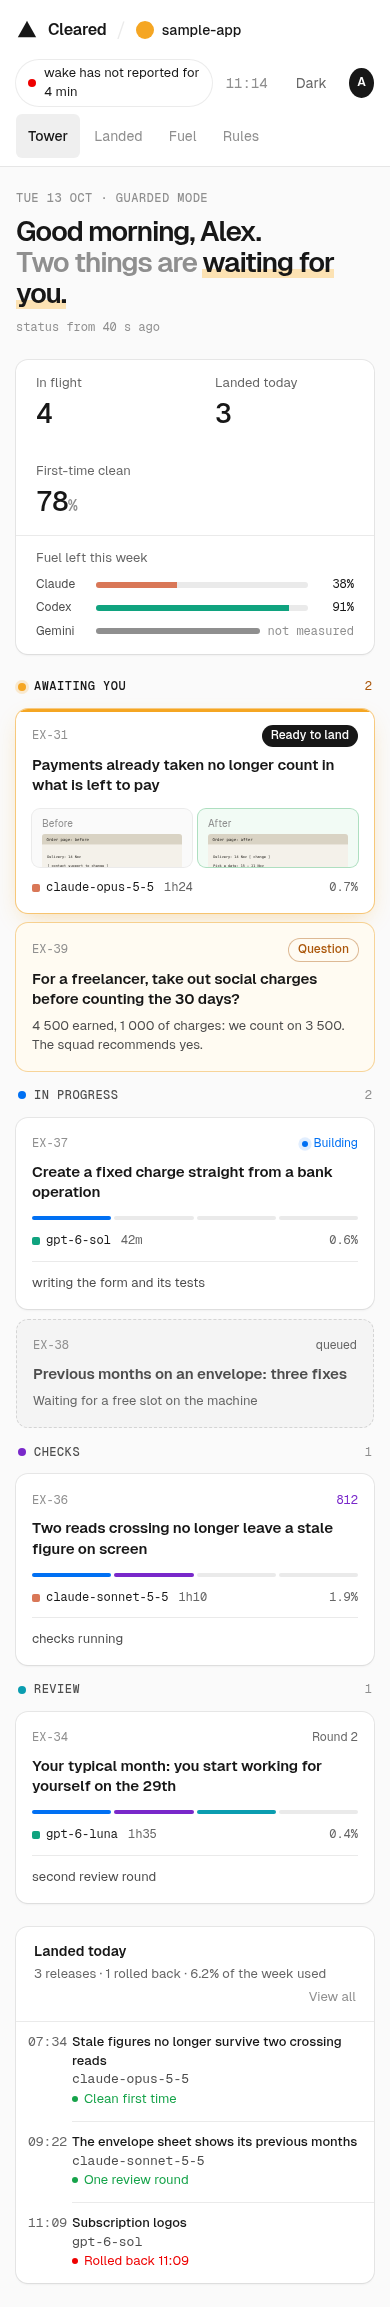
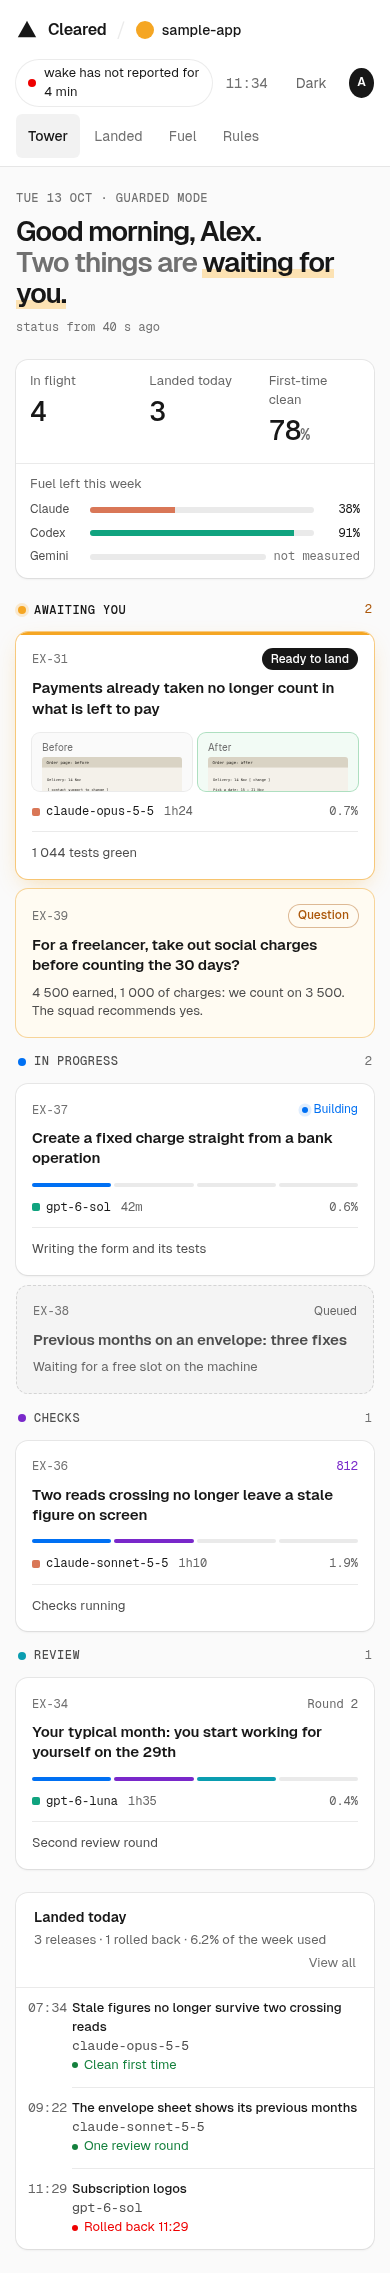
fix: address review round 1 of the redesign
Readable disabled actions, empty fuel track when not measured, 4.5:1 text colours,
live stat strip and landed table, grammatical French, table semantics, focus kept
in the porthole, no remote call for landed titles, question card shows the
question, mockups load fonts from the app, stricter design tests.

diff --git a/app/public/style.css b/app/public/style.css
@@ -3,10 +3,10 @@
 @font-face { font-family: "Geist Mono"; src: url("/fonts/GeistMono-Variable.woff2") format("woff2"); font-weight: 100 900; font-display: swap; }
 :root {
   --canvas: #FAFAFA; --surface: #FFFFFF; --surface-muted: #F4F4F4; --hairline: #EAEAEA; --outline: rgba(0,0,0,.08);
-  --text: #171717; --text-secondary: #4D4D4D; --text-muted: #666666; --text-faint: #8F8F8F;
+  --text: #171717; --text-secondary: #4D4D4D; --text-muted: #666666; --text-faint: #707070;
   --ink: #171717; --on-ink: #FFFFFF;
   --awaiting: #F5A623; --awaiting-text: #AB570A; --awaiting-surface: #FFFBF2; --awaiting-highlight: #FCE2B3;
-  --success: #16A34A; --success-surface: #F2FBF5; --danger: #EE0000; --link: #0070F3;
+  --success: #16A34A; --success-text: #15803D; --success-surface: #F2FBF5; --danger: #EE0000; --link: #0070F3;
   --stage-progress: #0070F3; --stage-checks: #7928CA; --stage-review: #0A9DB0;
   --harness-claude: #D97757; --harness-codex: #10A37F; --harness-other: #8F8F8F;
   --dashed: #D4D4D4; --disabled-bg: #EDEDED;
@@ -16,7 +16,7 @@
   --e-awaiting: 0 0 0 1px rgba(245,166,35,.55), 0 8px 24px -8px rgba(245,166,35,.45);
   --e-device-after: 0 0 0 1.5px rgba(22,163,74,.55), 0 8px 20px -6px rgba(22,163,74,.35);
   --e-header: 0 1px 0 rgba(0,0,0,.08);
-  --ease: cubic-bezier(.2,.8,.2,1);
+  --ease: cubic-bezier(.2,.8,.2,1); --conn-ink: #FFFFFF; --tab-fill: rgba(0,0,0,.05); --device-before: 0 0 0 1px rgba(0,0,0,.1), 0 4px 12px rgba(0,0,0,.06);
   color-scheme: light;
 }
 /* Dark is the second plane: same roles, other values. Chosen with the button; never imposed by the system. */
@@ -25,7 +25,7 @@
   --text: #EDEDED; --text-secondary: #B8B8B8; --text-muted: #A1A1A1; --text-faint: #8F8F8F;
   --ink: #EDEDED; --on-ink: #0A0A0A;
   --awaiting: #F5A623; --awaiting-text: #F7B955; --awaiting-surface: #1C1708; --awaiting-highlight: #5A3F0C;
-  --success: #3DD068; --success-surface: #0C1C12; --danger: #FF4D4D; --link: #52A8FF;
+  --success: #3DD068; --success-text: #3DD068; --success-surface: #0C1C12; --danger: #FF4D4D; --link: #52A8FF;
   --stage-progress: #52A8FF; --stage-checks: #BF7AF0; --stage-review: #3DC6D8;
   --dashed: #3A3A3A; --disabled-bg: #1F1F1F;
   --e-outline: 0 0 0 1px rgba(255,255,255,.12);
@@ -33,6 +33,7 @@
   --e-awaiting: 0 0 0 1px rgba(245,166,35,.6), 0 8px 24px -8px rgba(245,166,35,.25);
   --e-device-after: 0 0 0 1.5px rgba(61,208,104,.6), 0 8px 20px -6px rgba(61,208,104,.25);
   --e-header: 0 1px 0 rgba(255,255,255,.12);
+  --conn-ink: #0A0A0A; --tab-fill: rgba(255,255,255,.08); --device-before: 0 0 0 1px rgba(255,255,255,.22);
   color-scheme: dark;
 }
 * { box-sizing: border-box; }
@@ -40,7 +41,7 @@ body { margin: 0; background: var(--canvas); color: var(--text); font: 400 14px/
 h1, h2, h3, p { margin: 0; }
 a { color: var(--link); } button { font: inherit; color: inherit; }
 .mono { font-family: var(--mono); font-variant-numeric: tabular-nums; }
-.faint { color: var(--text-faint); } .muted { color: var(--text-muted); } .danger { color: var(--danger); } .success { color: var(--success); }
+.faint { color: var(--text-faint); } .muted { color: var(--text-muted); } .danger { color: var(--danger); } .success { color: var(--success-text); }
 .label { font: 500 12px/1.4 var(--mono); letter-spacing: .04em; text-transform: uppercase; }
 :focus-visible { outline: 2px solid var(--link); outline-offset: 2px; }
 .skip { position: absolute; left: -999px; } .skip:focus { left: 8px; top: 8px; background: var(--surface); padding: 8px 12px; z-index: 30; box-shadow: var(--e-outline); }
@@ -54,7 +55,7 @@ a { color: var(--link); } button { font: inherit; color: inherit; }
 .project { display: inline-flex; align-items: center; gap: 8px; font-weight: 500; min-height: 44px; }
 .project::before { content: ""; width: 18px; height: 18px; border-radius: 50%; background: var(--awaiting); }
 .views { display: flex; gap: 2px; } .views a, .views span { display: inline-flex; align-items: center; min-height: 44px; padding: 0 12px; border-radius: 6px; color: var(--text-muted); text-decoration: none; }
-.views a[aria-current="page"] { color: var(--text); font-weight: 500; background: rgba(127,127,127,.12); }
+.views a[aria-current="page"] { color: var(--text); font-weight: 500; background: var(--tab-fill); }
 .views span[aria-disabled] { color: var(--text-faint); }
 .right { margin-left: auto; display: flex; align-items: center; gap: 14px; }
 .pill { display: inline-flex; align-items: center; gap: 8px; min-height: 32px; padding: 4px 12px; border-radius: 999px; background: var(--surface); box-shadow: var(--e-outline); font-size: 13px; }
@@ -62,7 +63,7 @@ a { color: var(--link); } button { font: inherit; color: inherit; }
 .avatar { width: 30px; height: 30px; border-radius: 50%; background: var(--ink); color: var(--on-ink); display: inline-flex; align-items: center; justify-content: center; font-size: 12px; font-weight: 600; }
 .plain { background: var(--surface); border: 0; box-shadow: var(--e-outline); border-radius: 8px; min-height: 44px; min-width: 44px; padding: 0 14px; cursor: pointer; }
 .plain.small { min-height: 44px; background: transparent; box-shadow: none; color: var(--text-muted); }
-.conn { padding: 8px 32px; background: var(--danger); color: #fff; font: 400 13px var(--mono); }
+.conn { padding: 8px 32px; background: var(--danger); color: var(--conn-ink); font: 400 13px var(--mono); }
 
 /* greeting band and stat strip */
 .band { display: flex; flex-wrap: wrap; align-items: flex-end; gap: 24px 32px; padding: 40px 32px 8px; }
@@ -76,7 +77,7 @@ a { color: var(--link); } button { font: inherit; color: inherit; }
 .stat .v small { font-size: 16px; color: var(--text-faint); font-weight: 500; }
 .stat.fuel { min-width: 190px; } .stat.fuel .k { margin-bottom: 8px; }
 .fuelrow { display: flex; align-items: center; gap: 8px; font-size: 12px; margin-top: 6px; } .fuelrow .n { width: 52px; color: var(--text-secondary); }
-.fuelrow .bar6 { flex: 1; height: 6px; border-radius: 3px; background: var(--hairline); overflow: hidden; } .fuelrow .bar6 span { display: block; height: 100%; }
+.fuelrow .bar6 { flex: 1; height: 6px; border-radius: 3px; background: var(--hairline); overflow: hidden; } .fuelrow .bar6 span { display: block; height: 100%; width: 0; }
 .fuelrow .p { font-family: var(--mono); min-width: 38px; text-align: right; }
 
 /* tower */
@@ -116,10 +117,10 @@ a { color: var(--link); } button { font: inherit; color: inherit; }
 /* landed today */
 .landed { margin: 32px; border-radius: 12px; background: var(--surface); box-shadow: var(--e-card); }
 .landed-head { display: flex; flex-wrap: wrap; align-items: baseline; gap: 4px 12px; padding: 14px 18px; box-shadow: 0 1px 0 var(--hairline); } .landed-head h2 { font-size: 14px; font-weight: 600; } .landed-head .muted { font-size: 13px; } .view-all { margin-left: auto; font-size: 13px; }
-.landed-rows { display: grid; grid-template-columns: 90px 1fr 140px 170px; font-size: 13px; } .landed-rows > div { padding: 12px 0; box-shadow: 0 1px 0 var(--hairline); }
-.landed-rows > div:nth-last-child(-n+4) { box-shadow: none; }
+.landed-rows { display: grid; grid-template-columns: 90px 1fr 180px 170px; font-size: 13px; } .landed-rows [role="cell"] { padding: 12px 0; box-shadow: 0 1px 0 var(--hairline); }
+.landed-rows [role="row"]:last-child [role="cell"] { box-shadow: none; }
 .landed-rows .time { padding-left: 18px; color: var(--text-muted); font-family: var(--mono); } .landed-rows .what { font-weight: 500; padding-right: 12px; } .landed-rows .model { font-family: var(--mono); color: var(--text-secondary); } .landed-rows .out { padding-right: 18px; }
-.out span { display: inline-flex; align-items: center; gap: 6px; } .out i { width: 6px; height: 6px; border-radius: 50%; background: currentColor; }
+.out .success { color: var(--success-text); } .out span { display: inline-flex; align-items: center; gap: 6px; } .out i { width: 6px; height: 6px; border-radius: 50%; background: currentColor; }
 .landed .empty { padding: 14px 18px; grid-column: 1 / -1; }
 
 /* porthole: right panel on a computer, a page on a phone */
@@ -128,12 +129,12 @@ a { color: var(--link); } button { font: inherit; color: inherit; }
 .back { all: unset; box-sizing: border-box; width: 44px; height: 44px; border-radius: 8px; display: inline-flex; align-items: center; justify-content: center; box-shadow: var(--e-outline); cursor: pointer; } .back:focus-visible { outline: 2px solid var(--link); outline-offset: 2px; }
 .ph-head .chip { margin-left: auto; }
 .ph-body { flex: 1 1 auto; overflow-y: auto; padding: 18px 16px; display: flex; flex-direction: column; gap: 18px; }
-.ph-body h1 { font-size: 24px; font-weight: 600; letter-spacing: -.035em; line-height: 1.2; } .amber-bar { height: 3px; width: 56px; border-radius: 2px; background: var(--awaiting); margin-bottom: 12px; }
+.ph-body h2 { font-size: 24px; font-weight: 600; letter-spacing: -.035em; line-height: 1.2; } .amber-bar { height: 3px; width: 56px; border-radius: 2px; background: var(--awaiting); margin-bottom: 12px; }
 .pstats { display: flex; background: var(--surface); border-radius: 10px; box-shadow: var(--e-outline); } .pstats > div { flex: 1; padding: 10px 12px; min-width: 0; } .pstats > div + div { box-shadow: inset 1px 0 0 var(--hairline); }
 .pstats .k { font-size: 12px; color: var(--text-muted); } .pstats .v { font: 15px var(--mono); }
 .sec .label { font-size: 11px; color: var(--text-faint); margin-bottom: 8px; display: block; }
-.devs { display: flex; gap: 10px; } .devs figure { margin: 0; flex: 1; min-width: 0; } .devs figcaption { font-size: 12px; color: var(--text-muted); margin-top: 6px; text-align: center; } .devs .after figcaption { color: var(--success); font-weight: 500; }
-.device { display: block; width: 100%; padding: 5px; border-radius: 16px; background: var(--surface); box-shadow: 0 0 0 1px rgba(0,0,0,.1), 0 4px 12px rgba(0,0,0,.06); border: 0; cursor: zoom-in; } .after .device { box-shadow: var(--e-device-after); }
+.devs { display: flex; gap: 10px; } .devs figure { margin: 0; flex: 1; min-width: 0; } .devs figcaption { font-size: 12px; color: var(--text-muted); margin-top: 6px; text-align: center; } .devs .after figcaption { color: var(--success-text); font-weight: 500; }
+.device { display: block; width: 100%; padding: 5px; border-radius: 16px; background: var(--surface); box-shadow: var(--device-before); border: 0; cursor: zoom-in; } .after .device { box-shadow: var(--e-device-after); }
 .device img { display: block; width: 100%; height: 200px; object-fit: cover; object-position: top left; border-radius: 12px; background: var(--canvas); }
 .box-card { padding: 14px; border-radius: 10px; background: var(--surface); box-shadow: var(--e-outline); }
 .example p + p { margin-top: 6px; } .tests { list-style: none; margin: 10px 0 0; padding: 0; } .tests li { padding: 6px 0; box-shadow: 0 -1px 0 var(--hairline); font-size: 13px; }
@@ -149,16 +150,16 @@ a { color: var(--link); } button { font: inherit; color: inherit; }
 
 /* login */
 .login main { max-width: 26rem; margin: 18vh auto 0; padding: 0 16px; display: grid; gap: 16px; } .login form { display: grid; gap: 8px; } .login input { min-height: 44px; padding: 0 12px; border: 0; border-radius: 8px; box-shadow: var(--e-outline); background: var(--surface); color: var(--text); font: inherit; }
-button.ink { min-height: 44px; border: 0; border-radius: 8px; background: var(--ink); color: var(--on-ink); font-weight: 500; cursor: pointer; }
+.login button.ink { min-height: 44px; border: 0; border-radius: 8px; background: var(--ink); color: var(--on-ink); font-weight: 500; cursor: pointer; }
 
 /* tablet 768 to 1279: two columns. phone under 768: one column, awaiting first. */
-@media (max-width: 1279px) { .tower { grid-template-columns: repeat(2, minmax(0, 1fr)); } .landed-rows { grid-template-columns: 80px 1fr 130px 150px; } .display { font-size: 32px; } }
-@media (min-width: 1100px) { body.has-ph .tower, body.has-ph .band, body.has-ph .landed, body.has-ph .top { margin-right: 480px; } }
+@media (max-width: 1279px) { .tower { grid-template-columns: repeat(2, minmax(0, 1fr)); } .landed-rows { grid-template-columns: 80px 1fr 170px 160px; } .display { font-size: 32px; } }
+@media (min-width: 1280px) { body.has-ph .tower, body.has-ph .band, body.has-ph .landed, body.has-ph .top { margin-right: 480px; } }
 @media (max-width: 767px) {
   .bar { padding: 8px 16px; gap: 8px 12px; } .band { padding: 24px 16px 4px; } .display { font-size: 28px; } .tower { grid-template-columns: 1fr; padding: 20px 16px 0; }
-  .col[data-col="awaiting"] { order: -1; } .landed { margin: 24px 16px; } .landed-rows { grid-template-columns: 56px 1fr; } .landed-rows .model, .landed-rows .out { grid-column: 2; padding: 0 12px 0 0; box-shadow: none; } .landed-rows .time, .landed-rows .what { box-shadow: none; padding-bottom: 0; }
-  .landed-rows .out { padding-bottom: 12px; box-shadow: 0 1px 0 var(--hairline); } .landed-rows .time { padding-left: 12px; } .landed-rows > div:nth-last-child(-n+4) { box-shadow: none; }
-  .stats .stat { flex: 1 1 40%; } .stats .stat.fuel { flex-basis: 100%; box-shadow: inset 0 1px 0 var(--hairline); } .stat + .stat { box-shadow: none; } .stats { width: 100%; }
+  .col[data-col="awaiting"] { order: -1; } .landed { margin: 24px 16px; } .landed-rows { grid-template-columns: 56px 1fr; } .landed-rows .model, .landed-rows .out { grid-column: 2; padding: 0 12px 0 0; box-shadow: none; } .landed-rows .time, .landed-rows .what { box-shadow: none !important; padding-bottom: 0; }
+  .landed-rows .out { padding-bottom: 12px; box-shadow: 0 1px 0 var(--hairline); } .landed-rows .time { padding-left: 12px; }
+  .stats .stat { flex: 1 1 0; min-width: 0; padding: 12px 14px; } .stats .stat.fuel { flex-basis: 100%; box-shadow: inset 0 1px 0 var(--hairline); } .stat + .stat { box-shadow: none; } .stats { width: 100%; }
   .conn { padding: 8px 16px; } .views { order: 5; width: 100%; overflow-x: auto; } .porthole { width: 100%; box-shadow: none; } .devs { gap: 8px; }
 }
 @media (prefers-reduced-motion: reduce) { .live { animation: none; } .card { transition: none; } * { scroll-behavior: auto !important; } }
@@ -170,3 +171,8 @@ button.ink { min-height: 44px; border: 0; border-radius: 8px; background: var(--
 .fuelrow .n { text-transform: capitalize; }
 .soon-btn { white-space: nowrap; font-size: 13px; padding: 0 8px; }
 .box-card.sec .label { margin-bottom: 6px; }
+
+.timeline summary { display: inline-flex; align-items: center; min-height: 44px; } .ph-body a { display: inline-flex; align-items: center; min-height: 44px; }
+.landed-rows [role="row"] { display: contents; } .landed-rows [role="columnheader"] { position: absolute; width: 1px; height: 1px; overflow: hidden; clip: rect(0 0 0 0); }
+.hint.round { font-family: var(--mono); }
+.landed-rows { position: relative; }

diff --git a/app/public/app.js b/app/public/app.js
@@ -14,8 +14,9 @@ const el = (tag, props = {}, ...kids) => {
 };
 const fr = () => document.documentElement.lang === 'fr';
 const locale = () => (fr() ? 'fr-FR' : 'en-US');
-const clock = (iso) => new Intl.DateTimeFormat(locale(), { hour: '2-digit', minute: '2-digit', hour12: false }).format(new Date(iso));
-const when = (iso) => new Intl.DateTimeFormat(locale(), { month: 'short', day: 'numeric', hour: '2-digit', minute: '2-digit', hour12: false }).format(new Date(iso));
+const clock = (iso) => new Intl.DateTimeFormat(locale(), { hour: '2-digit', minute: '2-digit', hourCycle: 'h23' }).format(new Date(iso));
+const when = (iso) => new Intl.DateTimeFormat(locale(), { month: 'short', day: 'numeric', hour: '2-digit', minute: '2-digit', hourCycle: 'h23' }).format(new Date(iso));
+const cap = (text) => (text ? text[0].toUpperCase() + text.slice(1) : text);
 const dur = (m) => (m < 60 ? `${m}m` : `${Math.floor(m / 60)}h${String(m % 60).padStart(2, '0')}`);
 const pct = (n) => `${String(n).replace('.', fr() ? ',' : '.')}%`;
 const mono = (text, cls = '') => el('span', { className: `mono ${cls}`.trim(), textContent: text });
@@ -59,7 +60,7 @@ function renderHeader(s) {
   for (const n of document.querySelectorAll('.soon-btn')) n.textContent = `${t(n.dataset.soon)} · ${t('app_soon')}`;
 }
 function tickClock() {
-  $('clock').textContent = new Intl.DateTimeFormat(locale(), { hour: '2-digit', minute: '2-digit', hour12: false }).format(new Date());
+  $('clock').textContent = new Intl.DateTimeFormat(locale(), { hour: '2-digit', minute: '2-digit', hourCycle: 'h23' }).format(new Date());
   const at = state.snap?.health?.recordedAt;
   $('health-age').textContent = at ? t('app_status_age', { age: ageText(at) }) : '';
 }
@@ -79,7 +80,7 @@ function renderGreeting(s) {
   const allReady = waiting.length > 0 && waiting.every((x) => x.kind === 'ready');
   const n = waiting.length;
   const second = n === 0 ? [null, t('app_wait_none')]
-    : [t(`app_wait_${allReady ? 'ready' : 'need'}_${n === 1 ? 'one' : 'other'}_tone`, { n: word(n) }), t(`app_wait_${allReady ? 'ready' : 'need'}_key`)];
+    : [t(`app_wait_${allReady ? 'ready' : 'need'}_${n === 1 ? 'one' : 'other'}_tone`, { n: word(n) }), t(`app_wait_${allReady ? 'ready' : 'need'}_key_${n === 1 ? 'one' : 'other'}`)];
   const h1 = $('greeting');
   h1.replaceChildren(`${greet}${s.owner?.name ? `, ${s.owner.name}` : ''}.`, el('br'),
     second[0] ? el('span', { className: 'tone', textContent: second[0] }) : null, el('span', { className: n ? 'key' : 'tone', textContent: second[1] }));
@@ -95,7 +96,7 @@ function renderStats(s) {
   const fuel = el('div', { className: 'stat fuel', role: 'listitem' }, el('div', { className: 'k', textContent: t('app_stat_fuel') }),
     ...s.fuel.map((f) => {
       const bar = el('span', { className: `h-${harnessClass(f.adapter)}` });
-      if (f.measured) bar.style.width = `${f.left}%`;
+      bar.style.width = f.measured ? `${f.left}%` : '0';
       return el('div', { className: 'fuelrow' }, el('span', { className: 'n', textContent: f.adapter }),
         el('span', { className: 'bar6', role: 'img', ariaLabel: f.measured ? `${f.adapter} ${f.left}%` : `${f.adapter} ${t('app_not_measured')}` }, bar),
         f.measured ? mono(`${f.left}%`, 'p') : el('span', { className: 'p faint', textContent: t('app_not_measured') }));
@@ -110,10 +111,10 @@ function card(ticket) {
   const top = el('div', { className: 'top-row' }, el('span', { className: 'id', textContent: ticket.id }));
   if (ticket.kind === 'ready') top.append(el('span', { className: 'chip', textContent: t('app_chip_ready') }));
   else if (ticket.kind === 'question') top.append(el('span', { className: 'chip q', textContent: t('app_chip_question') }));
-  else if (ticket.kind === 'queued') top.append(el('span', { className: 'hint', textContent: t('app_queued_tag') }));
+  else if (ticket.kind === 'queued') top.append(el('span', { className: 'hint', textContent: cap(t('app_queued_tag')) }));
   else if (ticket.live) top.append(el('span', { className: 'hint progress' }, el('i', { className: 'live' }), t('app_hint_building')));
   else if (ticket.column === 'checks' && ticket.tests) top.append(el('span', { className: 'hint checks', textContent: String(ticket.tests) }));
-  else if (ticket.round > 1) top.append(el('span', { className: 'hint', textContent: t('app_hint_round', { n: ticket.round }) }));
+  else if (ticket.round > 1) top.append(el('span', { className: 'hint round', textContent: t('app_hint_round', { n: ticket.round }) }));
   const parts = [top, el('h3', { textContent: ticket.title })];
   if (ticket.kind === 'ready' && ticket.captures) {
     parts.push(el('div', { className: 'tiles' },
@@ -127,7 +128,7 @@ function card(ticket) {
       ticket.kind === 'queued' ? null : mono(dur(ticket.flightMinutes)),
       el('span', { className: 'share', title: t('app_share_label') }, pct(ticket.quotaShare), el('span', { className: 'sr-only', textContent: ` ${t('app_share_label')}` }))));
   }
-  const sentence = ticket.queued || ticket.kind === 'question' ? ticket.reason : ticket.kind === 'ready' ? '' : ticket.statusLine;
+  const sentence = cap(ticket.queued || ticket.kind === 'question' ? ticket.reason : ticket.statusLine);
   if (sentence) parts.push(el('div', { className: 'line', textContent: sentence }));
   const btn = el('button', { type: 'button' }, parts);
   btn.addEventListener('click', () => openTicket(ticket.id));
@@ -149,13 +150,14 @@ function renderLanded(s) {
   $('landed-summary').textContent = rows.length
     ? t(rows.length === 1 ? 'app_landed_summary_one' : 'app_landed_summary', { n: rows.length, r: back, p: String(share).replace('.', fr() ? ',' : '.') })
     : '';
-  const cells = rows.flatMap((r) => {
+  const heads = ['time', 'what', 'model', 'out'].map((k) => el('span', { role: 'columnheader', textContent: t(`app_landed_col_${k}`) }));
+  const lines = rows.map((r) => {
     const out = r.rolledBackAt ? ['danger', t('app_outcome_rolled', { time: clock(r.rolledBackAt) })]
       : r.fixes === 0 ? ['success', t('app_outcome_clean')] : ['success', r.fixes === 1 ? t('app_outcome_rounds_one') : t('app_outcome_rounds', { n: r.fixes })];
-    return [el('div', { className: 'time' }, el('time', { dateTime: r.at, textContent: clock(r.at) })), el('div', { className: 'what', textContent: r.title }),
-      el('div', { className: 'model', textContent: r.model }), el('div', { className: 'out' }, el('span', { className: out[0] }, el('i'), out[1]))];
+    return el('div', { role: 'row' }, el('div', { className: 'time', role: 'cell' }, el('time', { dateTime: r.at, textContent: clock(r.at) })), el('div', { className: 'what', role: 'cell', textContent: r.title }),
+      el('div', { className: 'model', role: 'cell', textContent: r.model }), el('div', { className: 'out', role: 'cell' }, el('span', { className: out[0] }, el('i'), out[1])));
   });
-  $('landed-rows').replaceChildren(...(cells.length ? cells : [el('p', { className: 'empty', textContent: t('app_landed_empty') })]));
+  $('landed-rows').replaceChildren(...(lines.length ? [el('div', { role: 'row' }, heads), ...lines] : [el('p', { className: 'empty', role: 'row', textContent: t('app_landed_empty') })]));
 }
 
 // Redrawing keeps the keyboard where it was, and skips what did not change.
@@ -177,12 +179,18 @@ function render(s) {
 }
 
 // --- porthole ----------------------------------------------------------------
+// Where the panel covers the page (a phone, a narrow window), what is behind it leaves the keyboard and the screen reader.
+function setCovered(on) {
+  const covers = matchMedia('(max-width: 1279px)').matches;
+  for (const sel of ['.top', '.band', '.tower', '.landed']) document.querySelector(sel).inert = on && covers;
+}
 async function openTicket(id) {
   const ph = $('porthole');
   state.opener = document.activeElement;
   state.open = id;
   ph.hidden = false;
   document.body.classList.add('has-ph');
+  setCovered(true);
   $('ph-id').textContent = id;
   $('ph-chip').textContent = '';
   $('ph-body').replaceChildren(el('p', { textContent: '…' }));
@@ -199,7 +207,7 @@ async function openTicket(id) {
   } catch { $('ph-body').replaceChildren(el('p', { className: 'danger', textContent: t('app_unavailable') })); }
 }
 function closeTicket() {
-  $('porthole').hidden = true; document.body.classList.remove('has-ph'); state.open = null;
+  $('porthole').hidden = true; document.body.classList.remove('has-ph'); state.open = null; setCovered(false);
   const back = state.opener?.isConnected ? state.opener : document.querySelector('.card button');
   back?.focus(); state.opener = null;
 }
@@ -220,7 +228,7 @@ const section = (label, ...kids) => el('section', { className: 'sec' }, el('span
 
 function porthole(d) {
   const out = [];
-  out.push(el('div', {}, d.waiting ? el('div', { className: 'amber-bar' }) : null, el('h1', { id: 'ph-title', textContent: d.title })));
+  out.push(el('div', {}, d.waiting ? el('div', { className: 'amber-bar' }) : null, el('h2', { id: 'ph-title', textContent: d.title })));
   out.push(el('div', { className: 'pstats' },
     el('div', {}, el('div', { className: 'k', textContent: t('app_stat_p_flight') }), el('div', { className: 'v', textContent: dur(d.flightMinutes) })),
     el('div', {}, el('div', { className: 'k', textContent: t('app_stat_p_usage') }), el('div', { className: 'v', textContent: pct(d.quotaShare) })),
@@ -264,13 +272,14 @@ function apply(e) {
   if (e.type === 'ticket.removed') s.tickets = s.tickets.filter((x) => x.id !== e.data.id);
   if (e.type === 'fuel.updated') s.fuel = e.data;
   if (e.type === 'health.updated') { s.health = e.data.health; s.mode = e.data.mode; }
+  if (e.type === 'stats.updated') { s.stats = e.data.stats; s.landed = e.data.landed; s.owner = e.data.owner; }
   render(s);
 }
 function live() {
   const source = new EventSource('/events');
   let beat = setTimeout(() => { state.reason = 'data'; connection(false); }, 40000);
   const stamp = () => { clearTimeout(beat); beat = setTimeout(() => { state.reason = 'link'; connection(false); }, 40000); connection(true); };
-  for (const type of ['snapshot', 'ticket.updated', 'ticket.removed', 'fuel.updated', 'health.updated', 'heartbeat'])
+  for (const type of ['snapshot', 'ticket.updated', 'ticket.removed', 'fuel.updated', 'health.updated', 'stats.updated', 'heartbeat'])
     source.addEventListener(type, (m) => { const e = JSON.parse(m.data); stamp(); if (e.type !== 'heartbeat') apply(e); else state.last = e.at; });
   source.onerror = async () => {
     state.reason = 'link'; connection(false);

diff --git a/app/public/index.html b/app/public/index.html
@@ -19,9 +19,9 @@
     </div>
     <nav class="views" aria-label="Views">
       <a href="#tower" aria-current="page" data-i="app_nav_tower">Tower</a>
-      <span aria-disabled="true" data-soon="app_nav_landed">Landed</span>
-      <span aria-disabled="true" data-soon="app_nav_fuel">Fuel</span>
-      <span aria-disabled="true" data-soon="app_nav_rules">Rules</span>
+      <span aria-disabled="true" data-soon="app_nav_landed" title="soon">Landed</span>
+      <span aria-disabled="true" data-soon="app_nav_fuel" title="soon">Fuel</span>
+      <span aria-disabled="true" data-soon="app_nav_rules" title="soon">Rules</span>
     </nav>
     <div class="right">
       <div id="health" class="pill"></div>
@@ -46,7 +46,7 @@
 
 <section id="landed" class="landed" aria-labelledby="landed-title">
   <div class="landed-head"><h2 id="landed-title" data-i="app_landed_title">Landed today</h2><span id="landed-summary" class="muted"></span><span class="view-all faint" aria-disabled="true" data-soon="app_view_all">View all</span></div>
-  <div id="landed-rows" class="landed-rows"></div>
+  <div id="landed-rows" class="landed-rows" role="table" aria-labelledby="landed-title"></div>
 </section>
 
 <aside id="porthole" class="porthole" role="dialog" aria-modal="false" aria-labelledby="ph-title" hidden>

diff --git a/app/public/login.html b/app/public/login.html
@@ -2,7 +2,7 @@
 <html lang="en"><head><meta charset="utf-8"><meta name="viewport" content="width=device-width, initial-scale=1"><meta name="color-scheme" content="light dark">
 <title>Cleared Cockpit · sign in</title><link rel="icon" href="data:,"><link rel="stylesheet" href="/style.css"></head>
 <body class="login"><main>
-<div class="brand"><svg width="22" height="22" viewBox="0 0 24 24" aria-hidden="true"><path d="M12 2 L22 20 H2 Z" class="logo"/></svg><span class="name">Cleared Cockpit</span></div>
+<h1 class="brand"><svg width="22" height="22" viewBox="0 0 24 24" aria-hidden="true"><path d="M12 2 L22 20 H2 Z" class="logo"/></svg><span class="name">Cleared Cockpit</span></h1>
 <p id="msg">Open this page with your access token after the # sign, or paste it below. It is read here and sent in a header, never in an address.</p>
 <form id="f"><label for="t">Access token</label><input id="t" type="password" autocomplete="off" spellcheck="false"><button type="submit" class="ink">Open</button></form>
 <p id="err" class="danger" role="alert" hidden></p>

diff --git a/app/reference/porthole-phone.html b/app/reference/porthole-phone.html
@@ -7,7 +7,7 @@
 <body>
 
 
-<link rel="stylesheet" href="https://fonts.googleapis.com/css2?family=Geist:wght@400;500;600;700&family=Geist+Mono:wght@400;500&display=swap">
+<style>@font-face{font-family:Geist;src:url(../public/fonts/Geist-Variable.woff2) format("woff2");font-weight:100 900}@font-face{font-family:"Geist Mono";src:url(../public/fonts/GeistMono-Variable.woff2) format("woff2");font-weight:100 900}</style>
 <style>
 body{margin:0}
 a{color:#0070F3}a:hover{color:#0059C1}

diff --git a/app/reference/tower.html b/app/reference/tower.html
@@ -7,7 +7,7 @@
 <body>
 
 
-<link rel="stylesheet" href="https://fonts.googleapis.com/css2?family=Geist:wght@400;500;600;700&family=Geist+Mono:wght@400;500&display=swap">
+<style>@font-face{font-family:Geist;src:url(../public/fonts/Geist-Variable.woff2) format("woff2");font-weight:100 900}@font-face{font-family:"Geist Mono";src:url(../public/fonts/GeistMono-Variable.woff2) format("woff2");font-weight:100 900}</style>
 <style>
 body{margin:0}
 a{color:#0070F3}a:hover{color:#0059C1}

diff --git a/docs/app.md b/docs/app.md
@@ -54,6 +54,7 @@ The server listens on `[app] bind` and refuses any peer outside `[app] ranges` (
 | `ticket.removed` | `{ "id": "EX-12" }` |
 | `fuel.updated` | The list of fuel entries. |
 | `health.updated` | `{ "health": {...}, "mode": {...} }` |
+| `stats.updated` | `{ "stats": {...}, "landed": [...], "owner": {...} }`: the stat strip and the Landed today table. |
 | `heartbeat` | `{}` every 15 s, so the page can tell silence from calm. |
 
 The page shows "Connection lost, last update HH:MM" at the top when the stream breaks or no frame arrives for 40 s. The names are dotted, `data` is plain JSON and there is no library dependency, so a later converter can map them to AG-UI: `snapshot` to `STATE_SNAPSHOT`, `*.updated` and `*.removed` to `STATE_DELTA`, `heartbeat` to a custom event.
